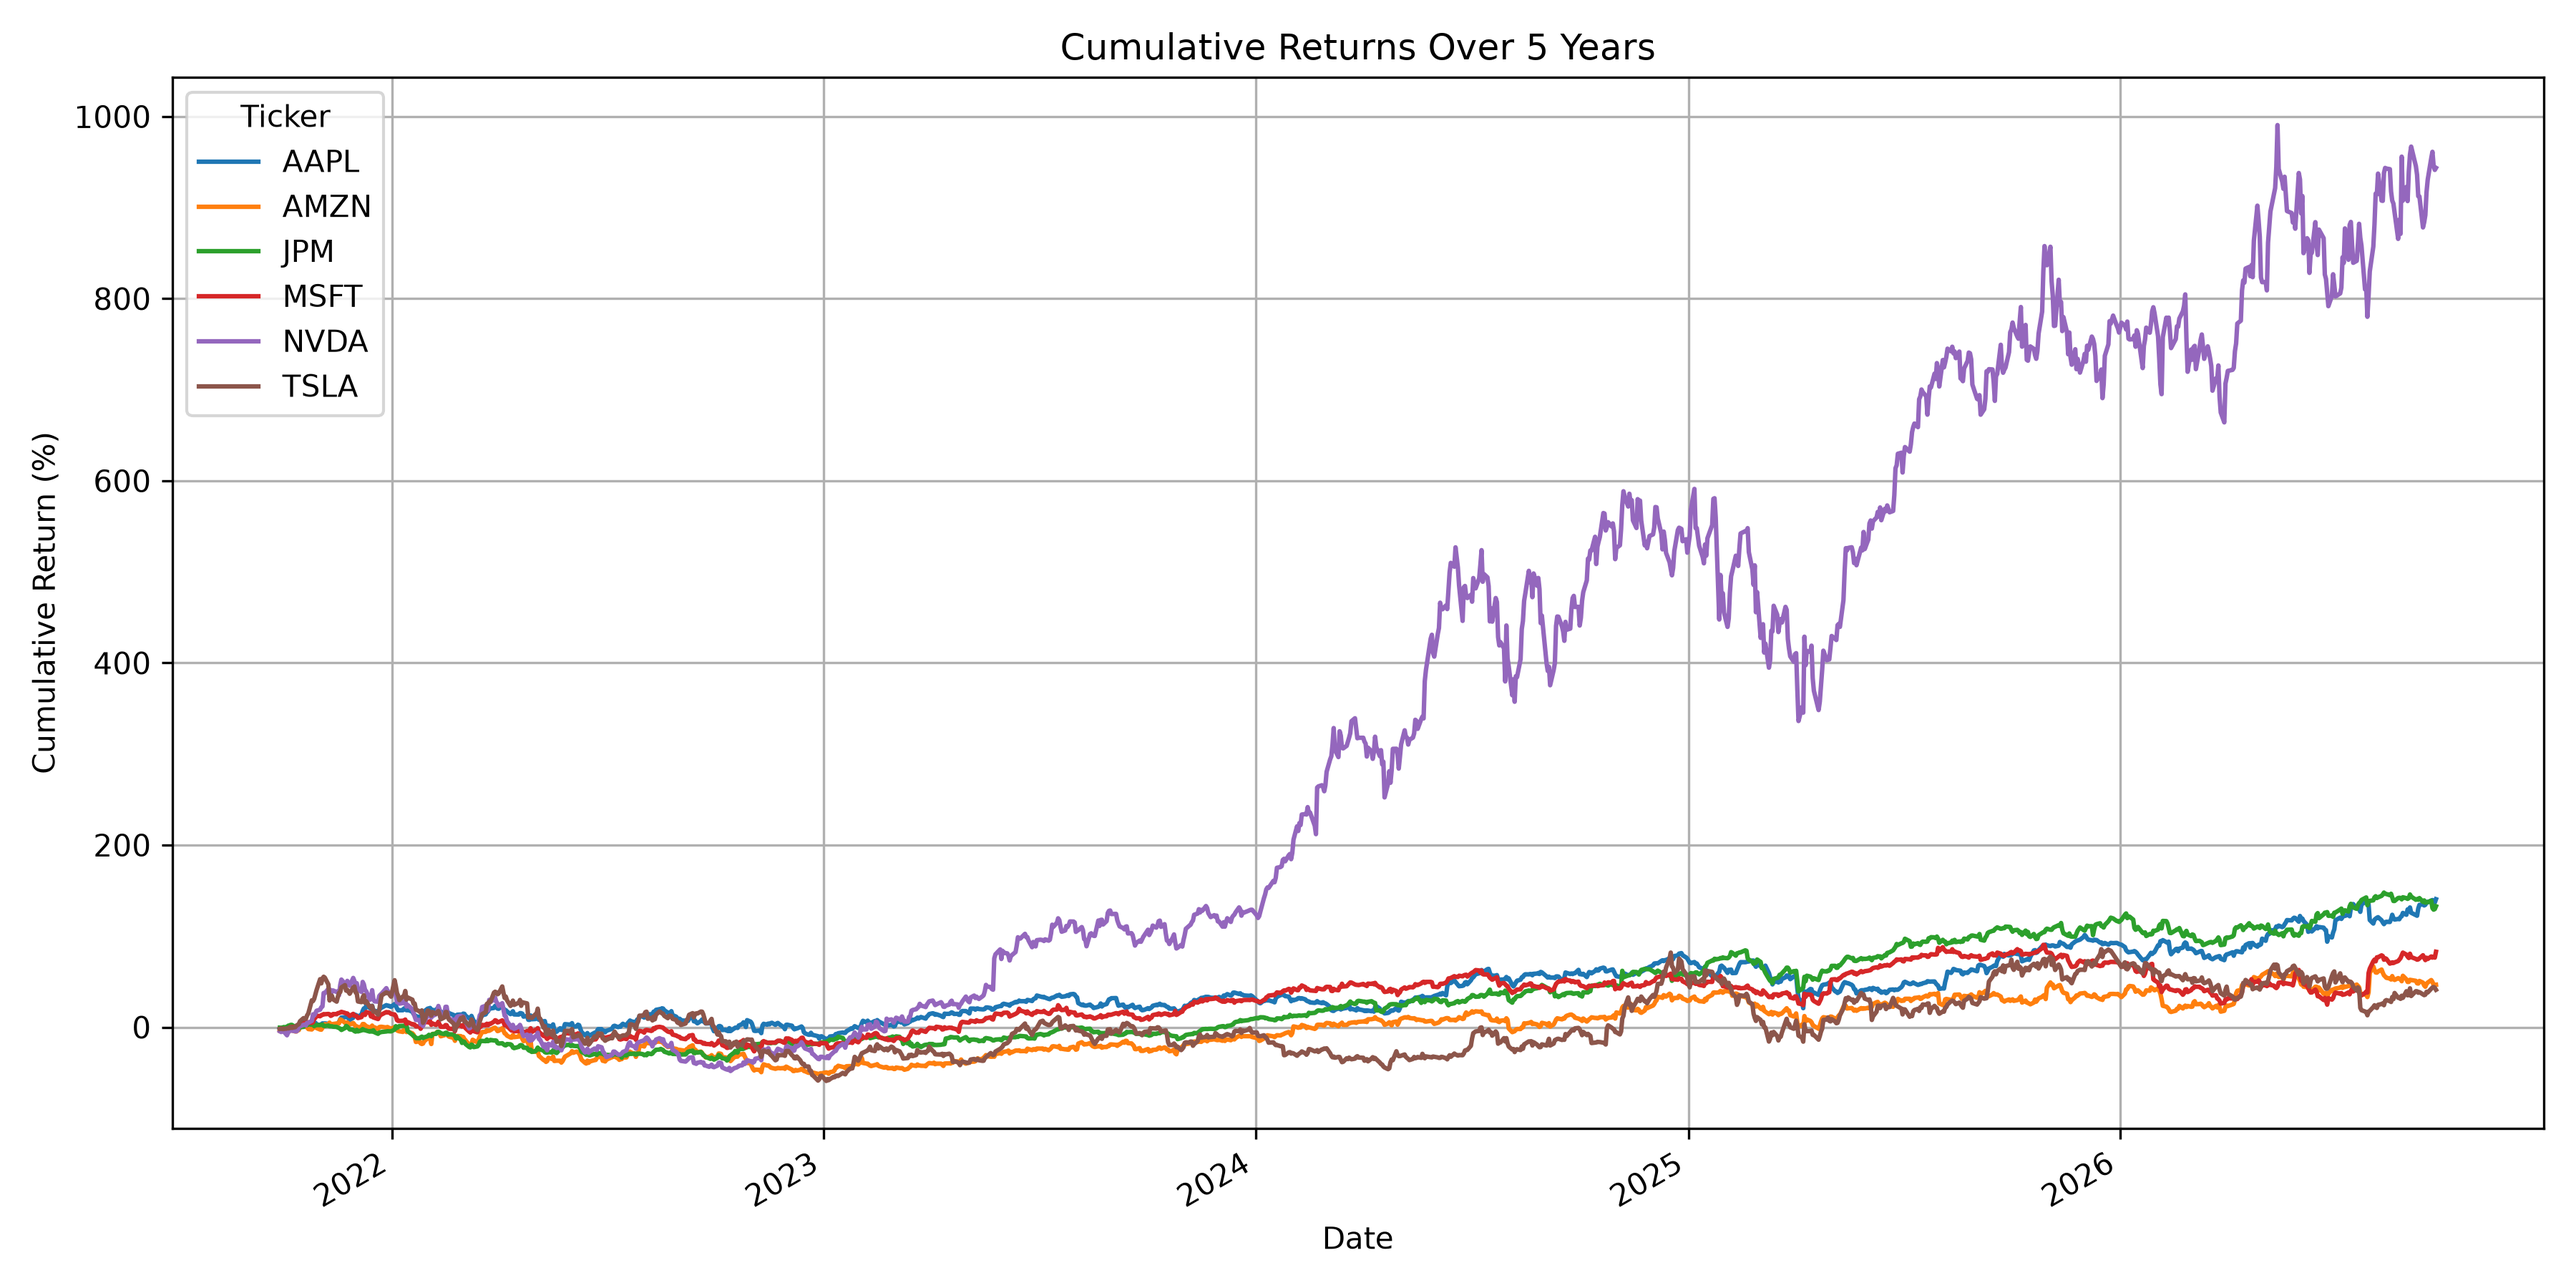
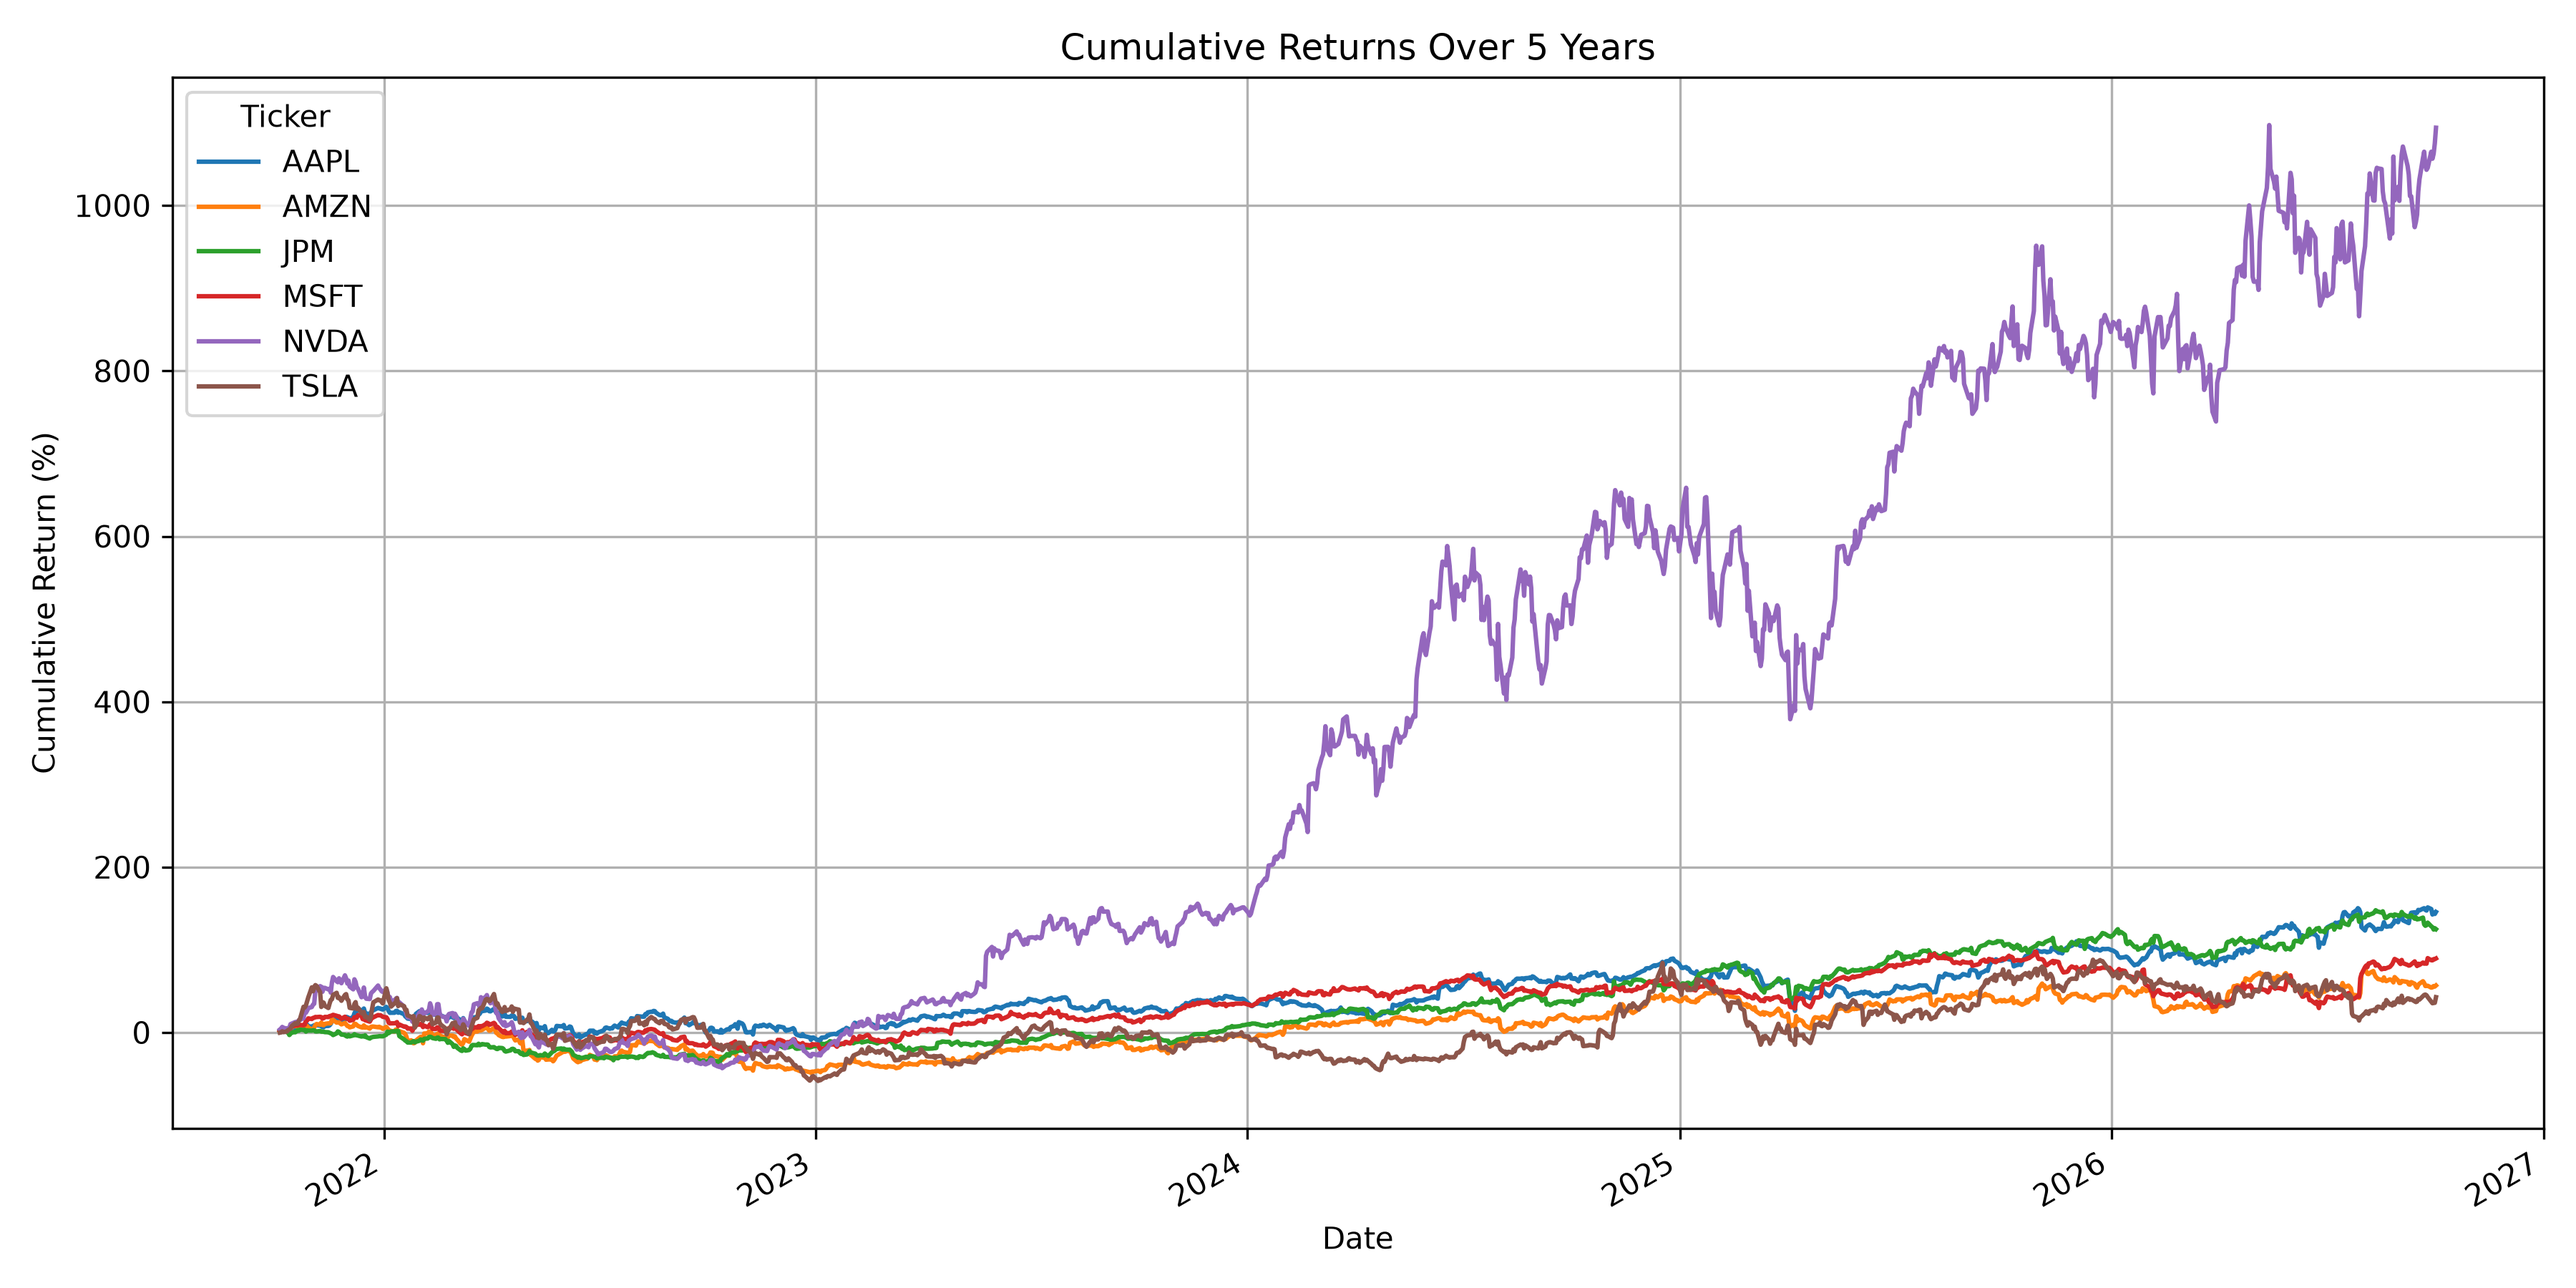
Add maximum drawdown analysis

diff --git a/main.py b/main.py
@@ -47,6 +47,16 @@ print(daily_volatility * 100)
 print("\nAnnualized volatility:")
 print(annualized_volatility * 100)
 
+# Maximum drawdown
+running_peak = close_prices.cummax()
+
+drawdowns = (close_prices / running_peak) - 1
+
+max_drawdown = drawdowns.min()
+
+print("\nMaximum drawdown:")
+print(max_drawdown * 100)
+
 
 # Cumulative returns
 cumulative_returns = (1 + daily_returns).cumprod() - 1
@@ -106,4 +116,18 @@ plt.grid(axis="y")
 plt.tight_layout()
 
 plt.savefig("figures/annualized_volatility.png", dpi=300)
+plt.show()
+
+# Plot maximum drawdown
+plt.figure(figsize=(10, 6))
+
+(max_drawdown * 100).plot(kind="bar")
+
+plt.title("Maximum Drawdown Over 5 Years")
+plt.xlabel("Stock")
+plt.ylabel("Maximum Drawdown (%)")
+plt.grid(axis="y")
+plt.tight_layout()
+
+plt.savefig("figures/maximum_drawdown.png", dpi=300)
 plt.show()
